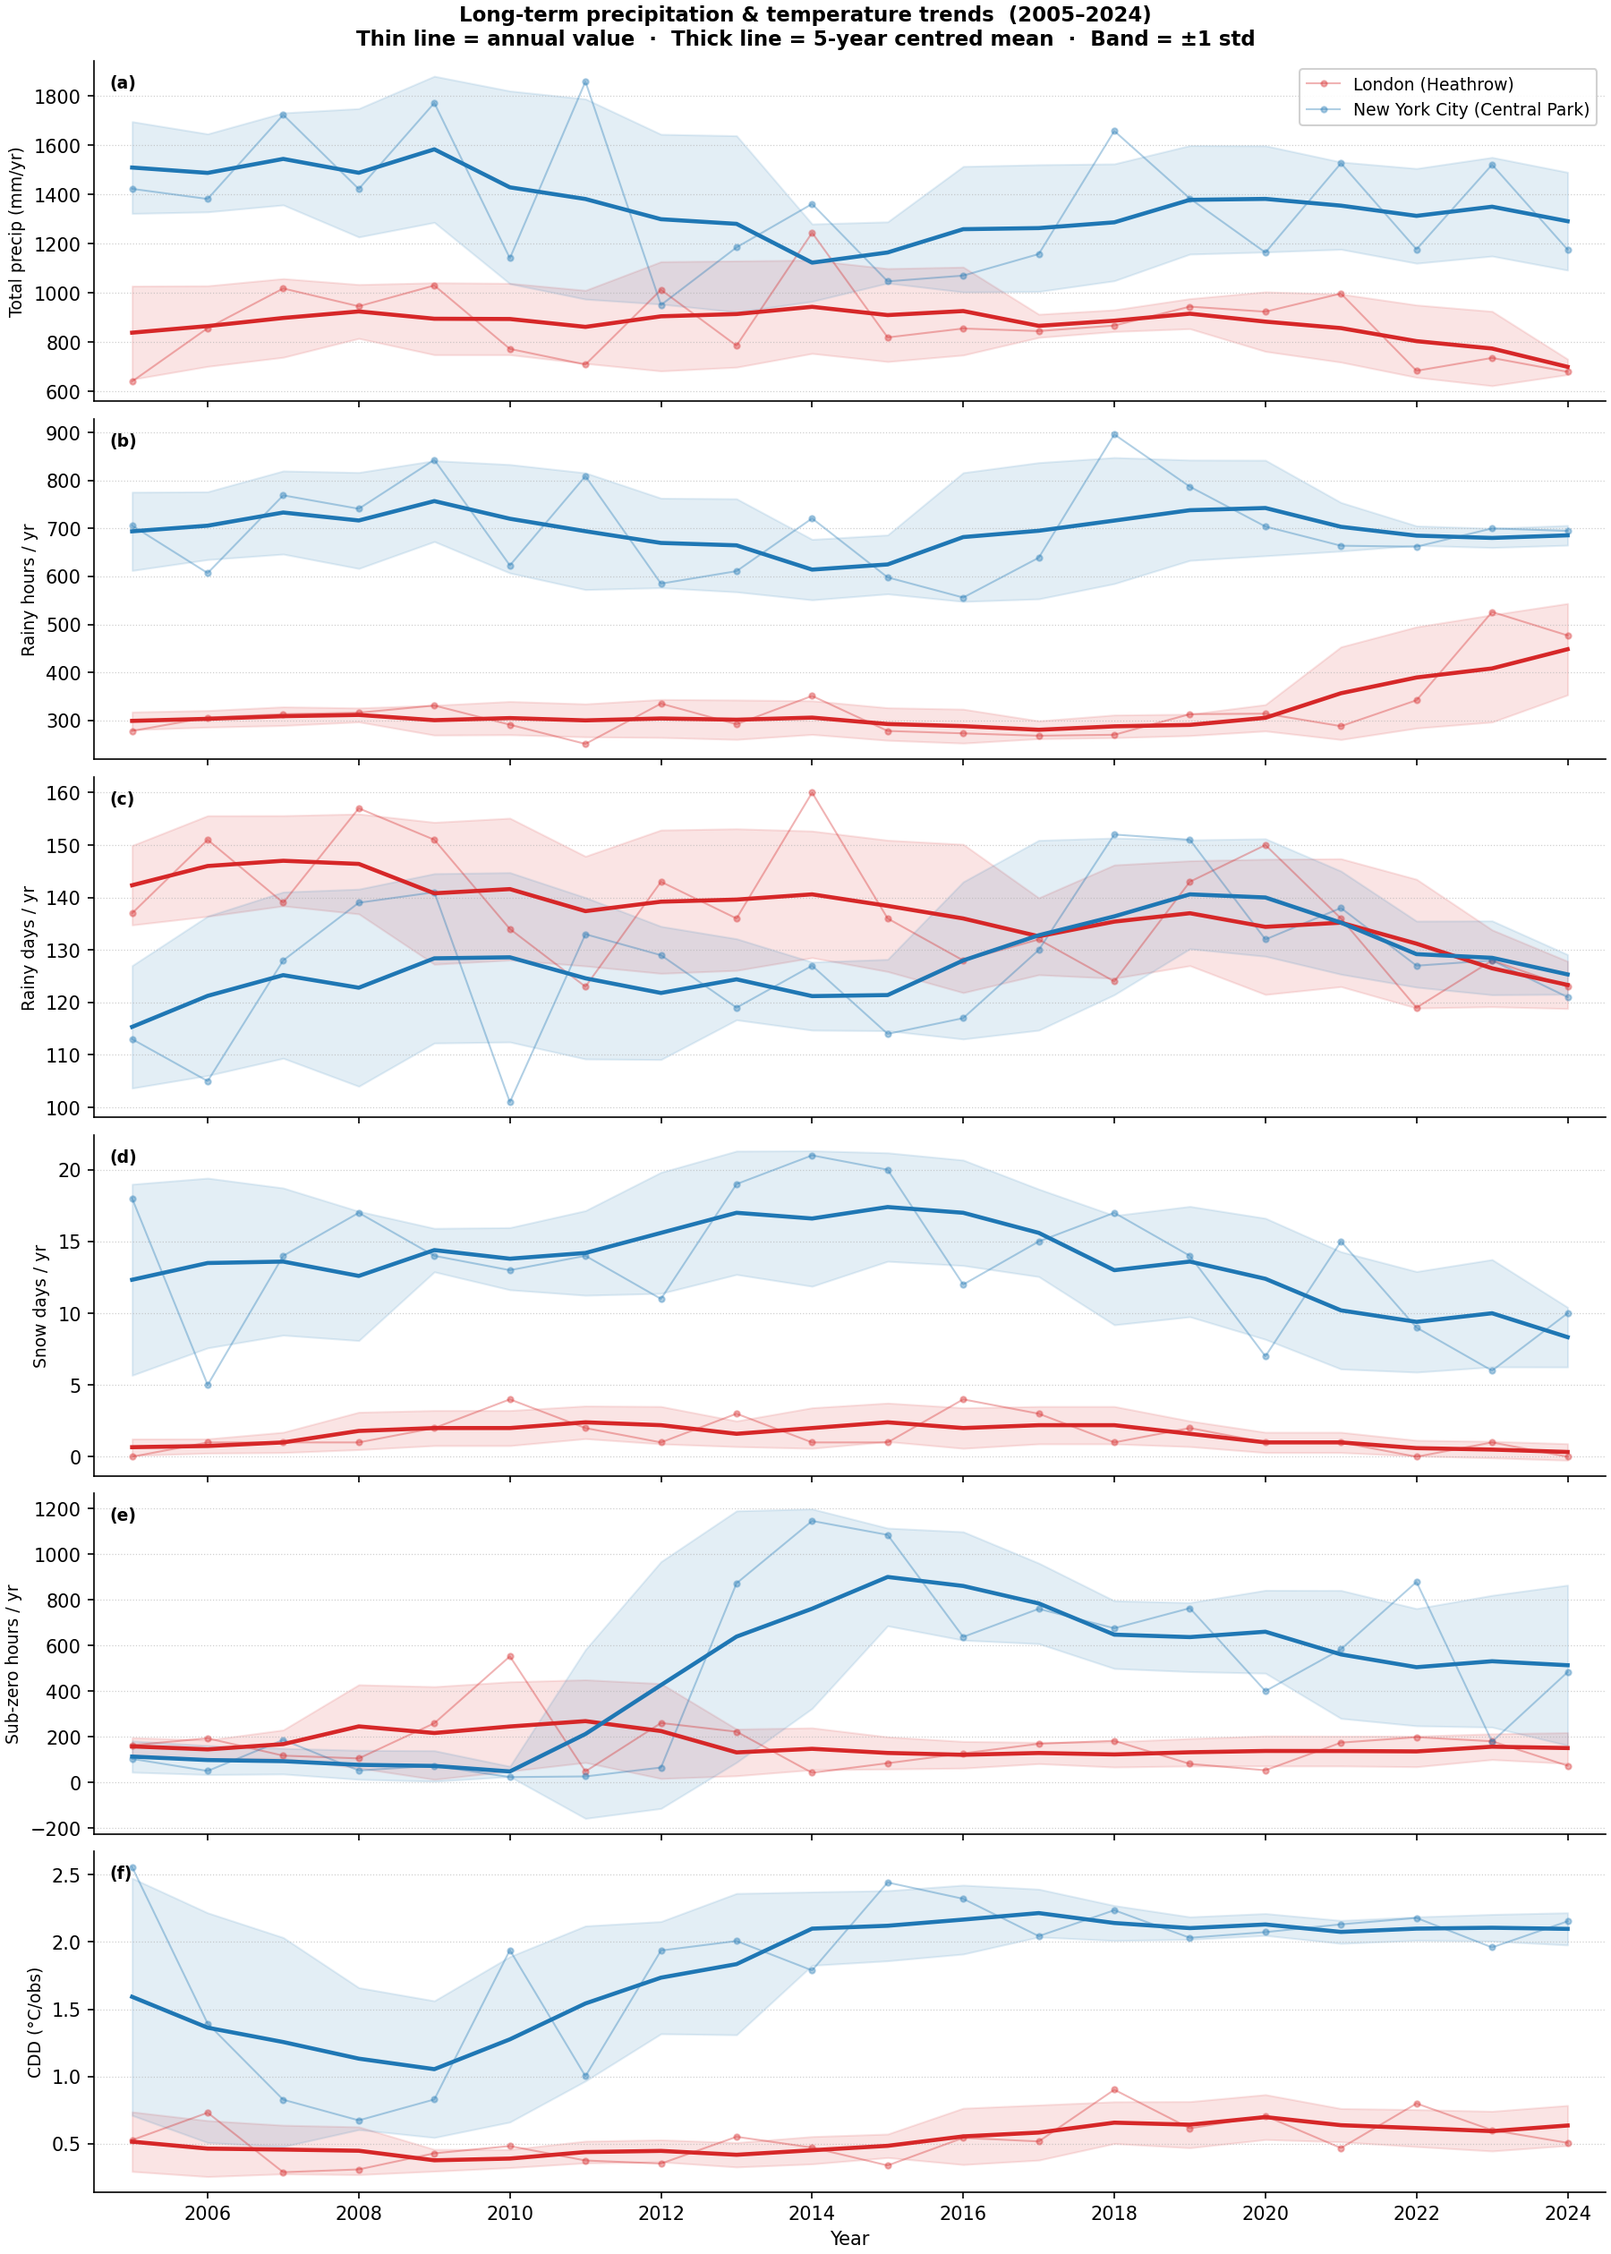
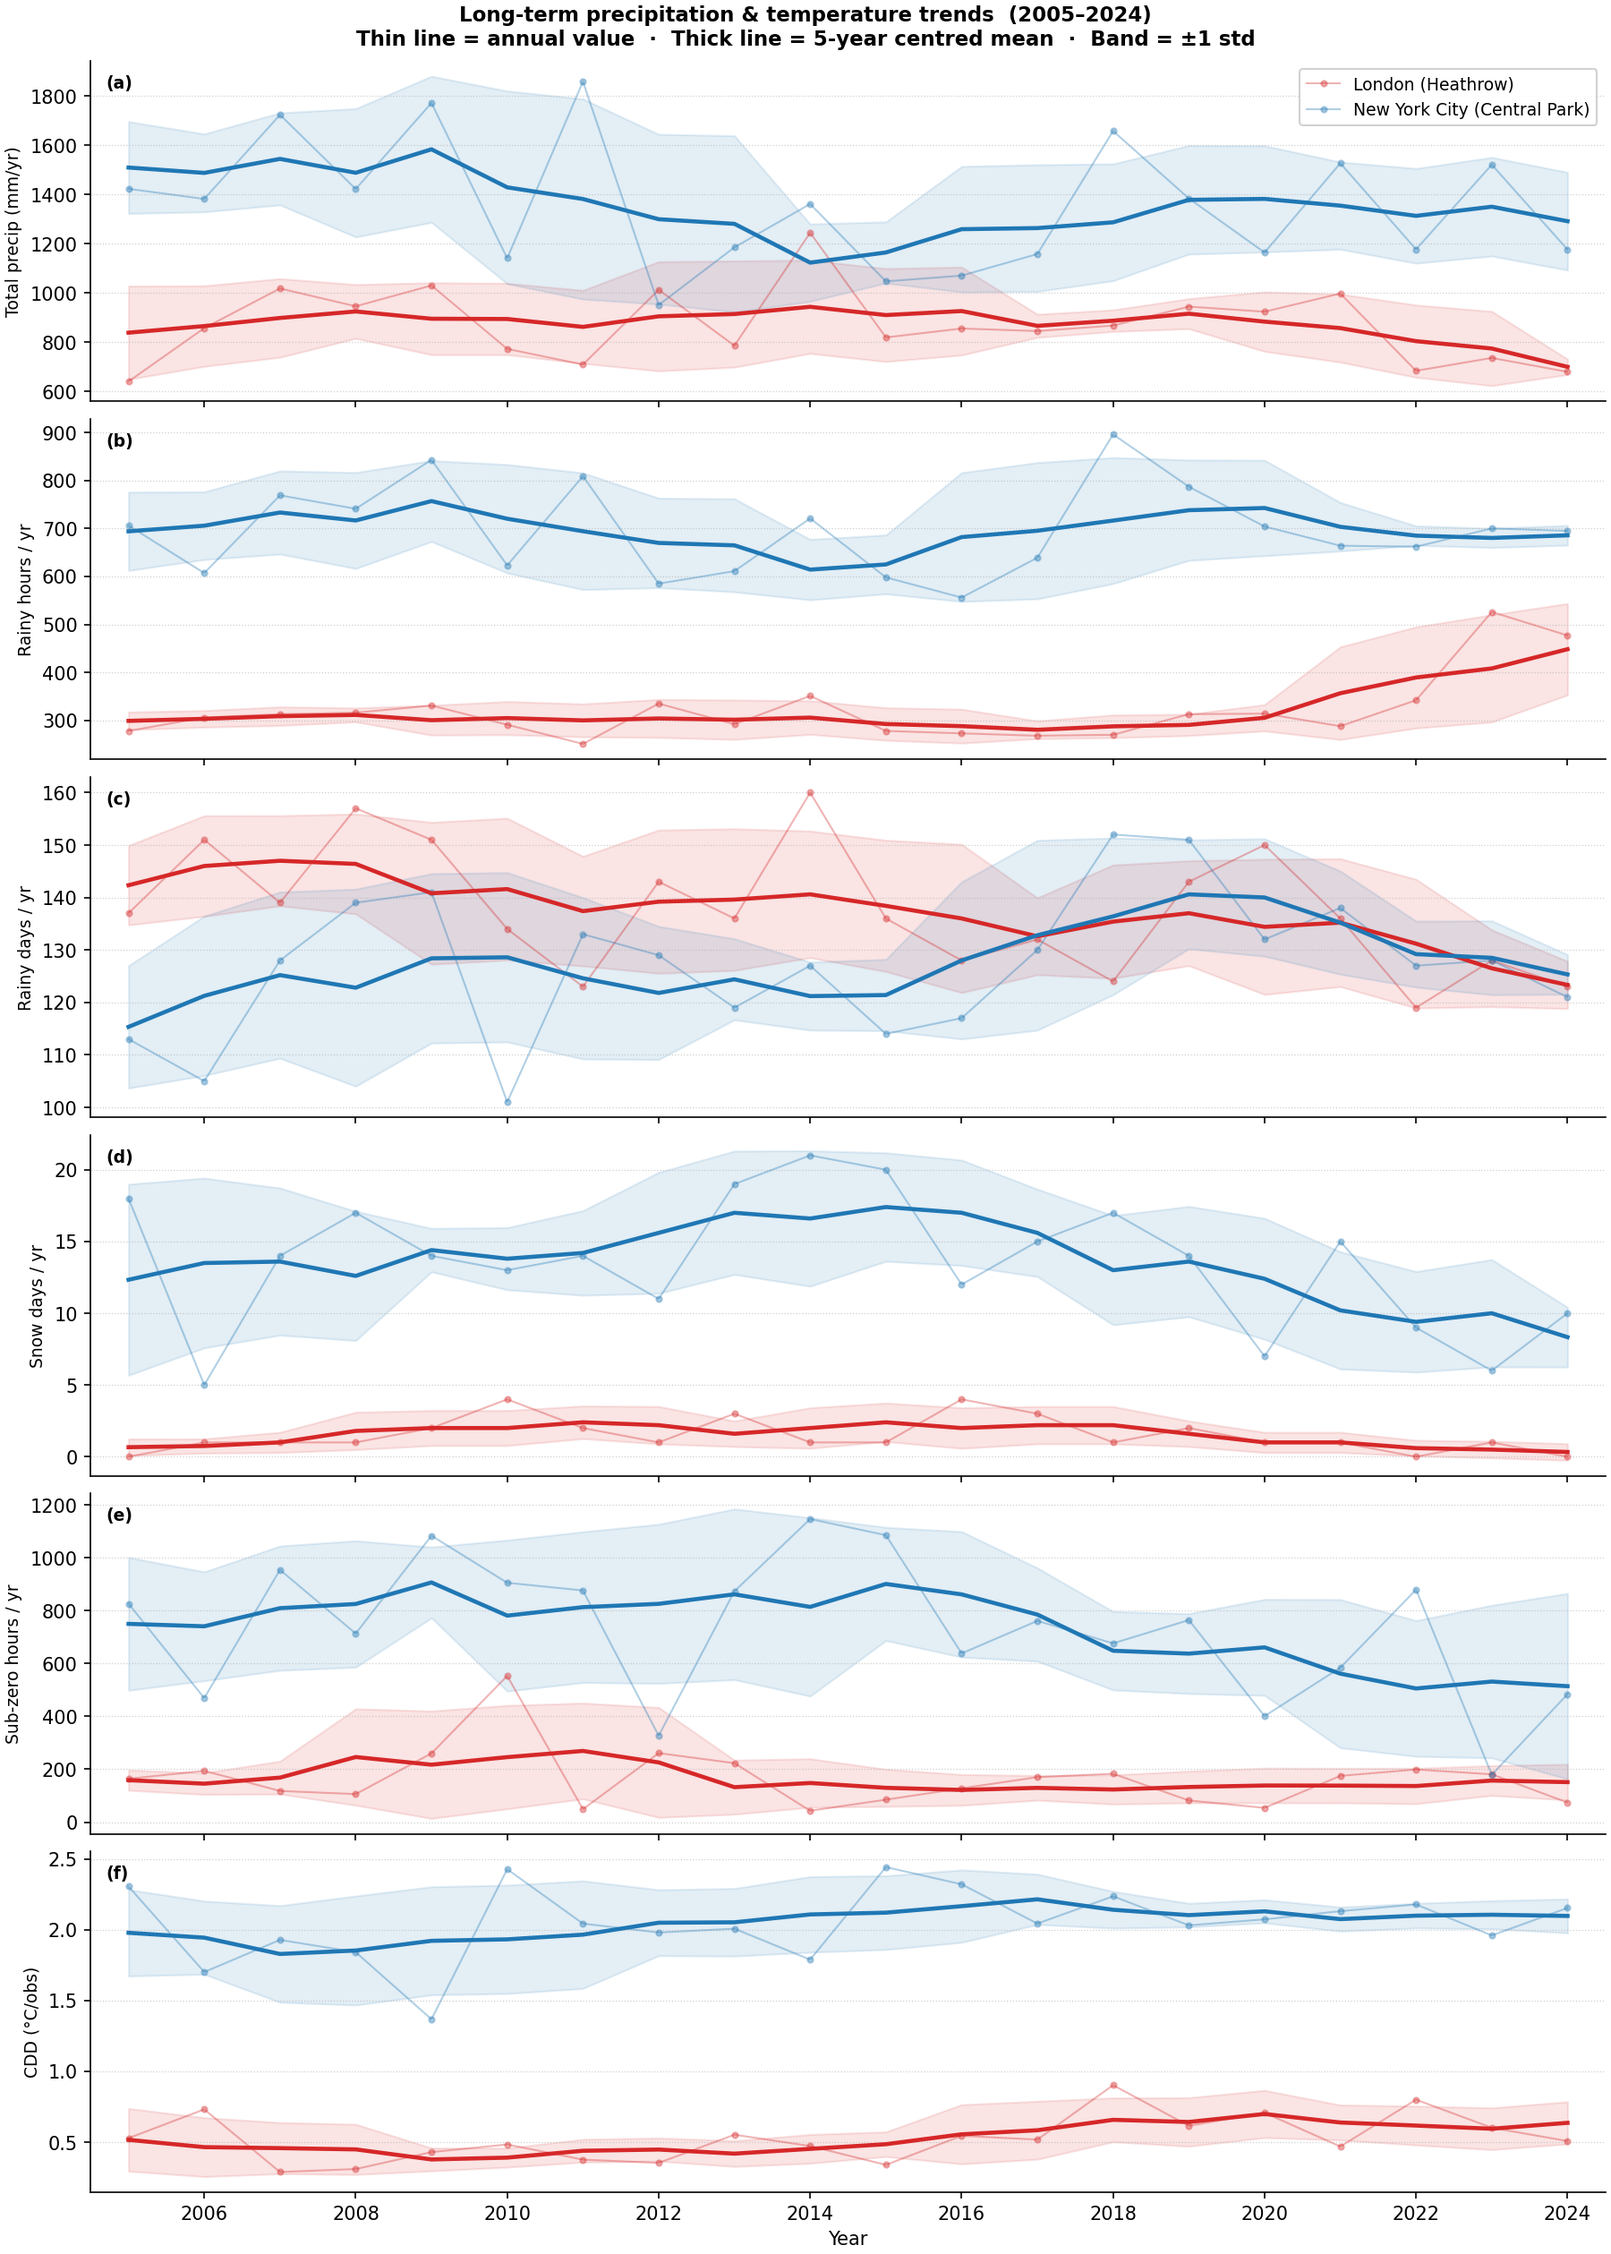
fix: temperature bug in AUTO-era NYC data (2005-2012)
The process_temperature_data priority-dropping logic was using a generic
loop: 'if any higher-priority type is present, drop all lower-priority ones'.
When FM-15 rows were present (even just a handful of source-4 supplemental
records) it caused all AUTO rows to be dropped, leaving only 4-13% of hours
covered for 2005-2011 — severely undercounting sub-zero hours and other
temperature metrics.

Fix: replace the generic loop with a targeted FM-12-only guard. The
drop-lower-priority logic exists solely to exclude Heathrow's whole-degree-
resolution FM-15 rows when high-resolution FM-12 (SYNOP) rows are available.
FM-15 and AUTO are both METAR-family types with identical temperature
resolution and must never cause each other to be dropped.

After the fix, 2005-2011 NYC has 7800-8800 temperature observations/year
(vs 350-1130 before) and sub-zero hours of 470-1085/yr — plausible for
NYC winters and consistent with the 2013-2024 range.

diff --git a/lon_nyc/noaa.py b/lon_nyc/noaa.py
@@ -516,31 +516,38 @@ def process_temperature_data(
             "'REPORT_TYPE' column not found; skipping report-type filter."
         )
 
-    # --- Drop lower-priority report types when higher-priority ones are present ---
+    # --- Drop FM-15 / AUTO when FM-12 (SYNOP) is present ---
     # At stations like London Heathrow, FM-12 (SYNOP) and FM-15 (METAR) rows
     # occupy *different* timestamps, so the deduplication step cannot choose
-    # between them.  Heathrow FM-15 records temperature at whole-degree
-    # resolution, producing artificial histogram spikes, while FM-12 rows have
-    # genuine 0.1 °C resolution.  If any FM-12 data is present in the dataset
-    # we therefore discard all FM-15 rows for temperature entirely, keeping
-    # FM-15 only at stations (like NYC) that file no FM-12 reports.
-    if report_types and "REPORT_TYPE" in df.columns and len(report_types) > 1:
+    # between them on a per-timestamp basis.  Heathrow FM-15 records temperature
+    # at whole-degree Celsius resolution, producing artificial spikes in the
+    # histogram, while FM-12 rows carry genuine 0.1 °C resolution.  If any
+    # FM-12 data is present in the dataset we therefore discard all FM-15 and
+    # AUTO rows for temperature entirely.
+    #
+    # IMPORTANT: this drop is triggered *only* by the presence of FM-12.
+    # FM-15 and AUTO are both METAR-family hourly observation types with
+    # identical temperature resolution; they must NOT cause each other to be
+    # dropped.  In particular, early NYC data (2005–2012) contains a mix of
+    # AUTO (the bulk of observations) and a small number of FM-15 rows (source
+    # 4 supplemental records); without this guard, detecting any FM-15 would
+    # cause all AUTO rows to be discarded, reducing temperature coverage from
+    # ~86 % to ~5–13 % and severely undercounting sub-zero hours.
+    if report_types and "REPORT_TYPE" in df.columns:
         rt_col = df["REPORT_TYPE"].astype(str)
-        for i, preferred in enumerate(report_types[:-1]):
-            if (rt_col == preferred).any():
-                # Higher-priority type is present — drop everything below it
-                drop_types = set(report_types[i + 1:])
-                before = len(df)
-                df = df[~rt_col.isin(drop_types)]
-                logger.info(
-                    "Station has '%s' data; dropped lower-priority types %s "
-                    "(%d → %d rows) to avoid mixed-resolution temperature bias.",
-                    preferred,
-                    drop_types,
-                    before,
-                    len(df),
-                )
-                break
+        if (rt_col == "FM-12").any():
+            # FM-12 (SYNOP) is present — drop METAR-family types to keep
+            # only the higher-resolution SYNOP temperature observations.
+            metar_types = {"FM-15", "AUTO "}
+            before = len(df)
+            df = df[~rt_col.isin(metar_types)]
+            logger.info(
+                "Station has FM-12 data; dropped METAR-family types %s "
+                "(%d → %d rows) to avoid mixed-resolution temperature bias.",
+                metar_types,
+                before,
+                len(df),
+            )
 
     # --- Sort by report-type priority before deduplication ---
     # Assign a numeric priority based on position in report_types so that when
